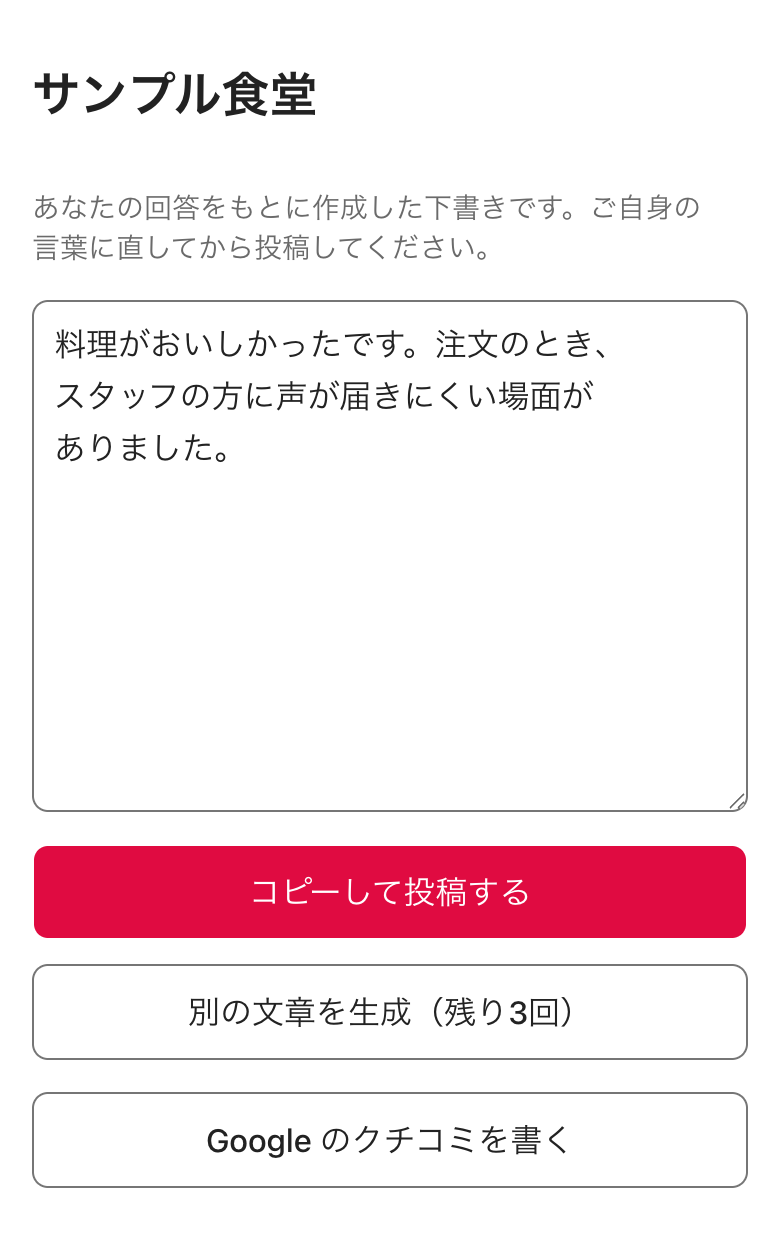
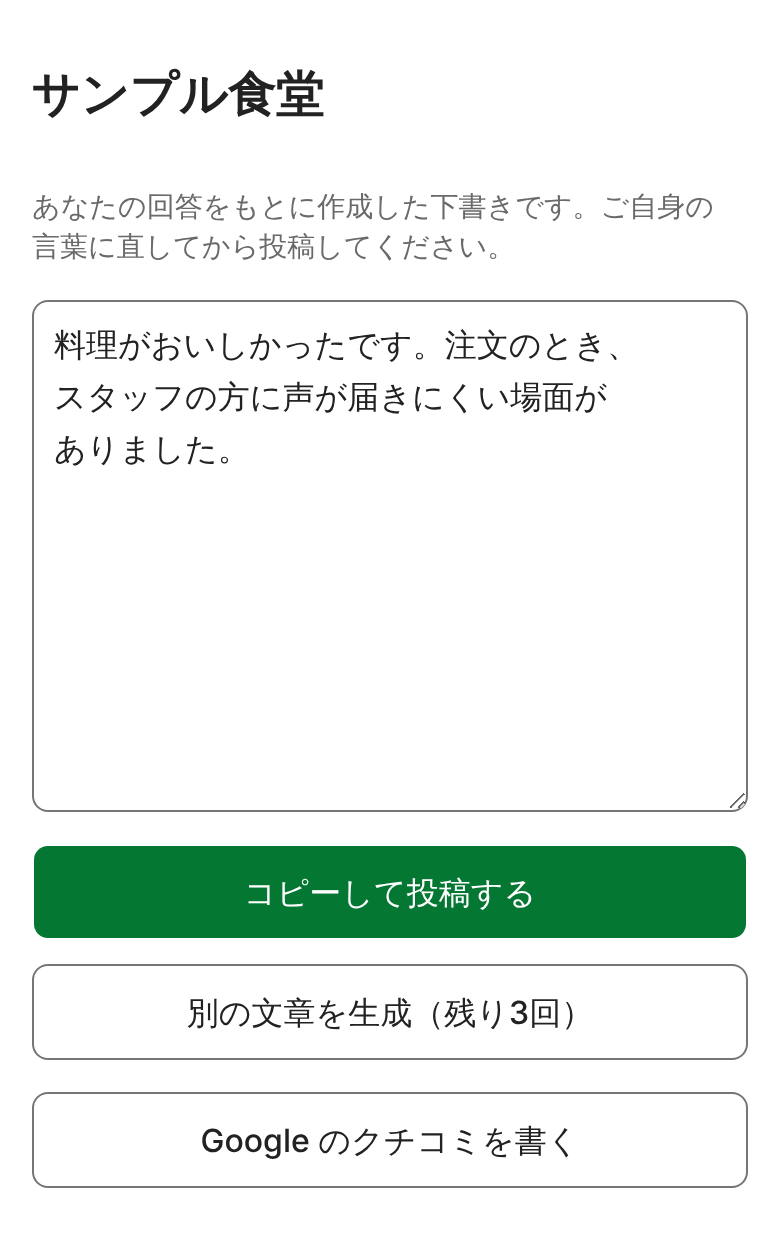
feat(assets): アイコン・OGP 画像・公開トップの画面写真を緑系へ作り直す
- 店舗のアイコン（各面の icon / apple-icon と管理ダッシュボードの brand-icon）は、
  OKLCH で赤系の画素だけを brand の色相へ移した。明るさと彩度は保ち、透過も保つ
- OGP 画像は同じ方法で移したうえで、「集客AIアシスタント」の文字を primary で
  描き直した。色相の移動だけでは対背景比が約 2.9:1 になり、公開トップに載る
  画像の中の文字が大きい文字の 3:1 を割るため
- 公開トップの画面写真 2 枚は、色を移さずに文書の撮影手順で実画面を撮り直した
- 判断と方法を docs/design/line-green-palette.md の「画像」に記録した

Claude-Session: https://claude.ai/code/session_01MnUrQxwfrsbtx1hdUXKZHz

diff --git a/docs/design/line-green-palette.md b/docs/design/line-green-palette.md
@@ -43,6 +43,22 @@ LINE Green そのものではなくなるので採らなかった。ワードマ
 相互比は 1.160 で、緑と赤はもっとも多い色覚特性（2 型）で見分けにくい。選択済みの面をアクション色で塗る部品の
 エラーリングに 3:1 を要求する検証（`ts/packages/ui/test/contrast-usage.test.ts`）は外さない。
 
+## 画像
+
+アイコンと OGP 画像には生成元（ベクター画像やスクリプト）が無く、ラスタ画像だけがある。色は次の方法で揃えた。
+
+| 画像 | 揃え方 |
+|---|---|
+| 店舗のアイコン（各面の `icon.png`・`apple-icon.png`、管理ダッシュボードの `brand-icon.png`） | OKLCH で赤系（色相 340〜45 度・彩度 0.02 以上）の画素だけを `brand` の色相（148.6 度）へ移す。明るさと彩度は保ち、緑で出せない彩度だけを色域の端へ寄せる。透過はそのまま |
+| OGP 画像（各面の `ogp.jpg`・`ogp.webp`） | アイコンと画面写真は上と同じ方法で移す。「集客AIアシスタント」の文字は、背景からの被覆率を保ったまま `primary` で描き直す |
+| 公開トップの画面写真（survey-web の `screenshots/survey.png`・`draft.png`） | 色を移さず、`docs/design/public-landing-page.md` の撮影手順で実画面を撮り直す |
+
+OGP 画像の文字を色相の移動だけで済ませなかったのは、明るさを保ったまま緑へ移すと対背景比が約 2.9:1 になり、
+大きい文字の 3:1 を割るためである（赤のときは約 3.05:1）。公開トップは `ogp.webp` をそのまま画面に載せているので、
+画像の中の文字も文字として扱う。`primary` で描き直した文字は約 5.4:1 になる。
+
+画像を作り直すときは、アイコンの面と装飾には `brand` の系統を、文字には `primary` を使う。
+
 ## 確かめた一次情報
 
 | 確かめたこと | 原文の記述 | 出典 |
